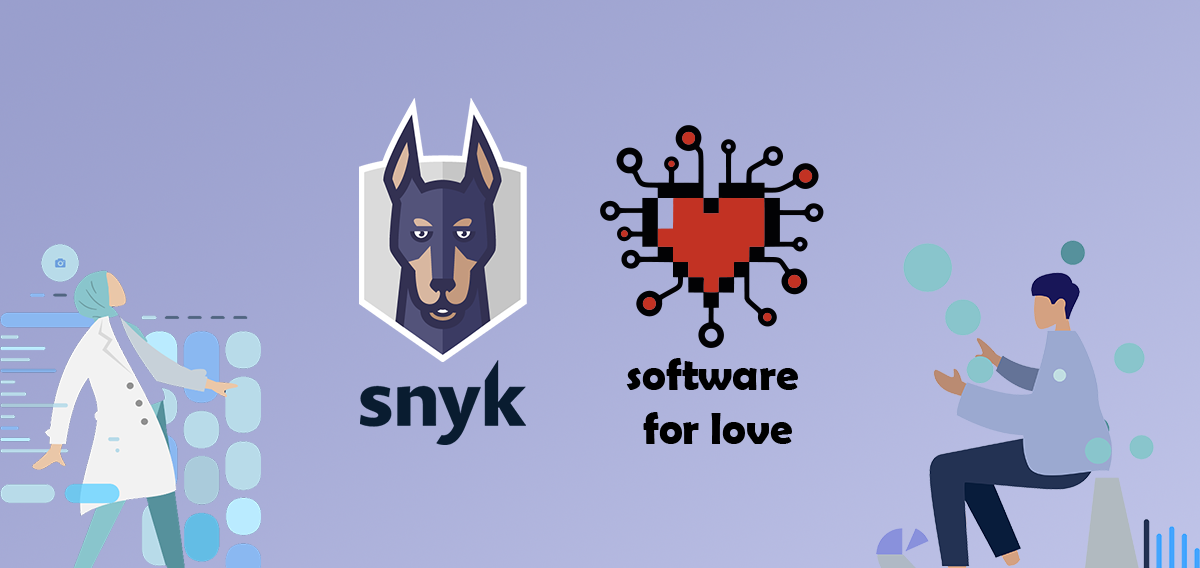
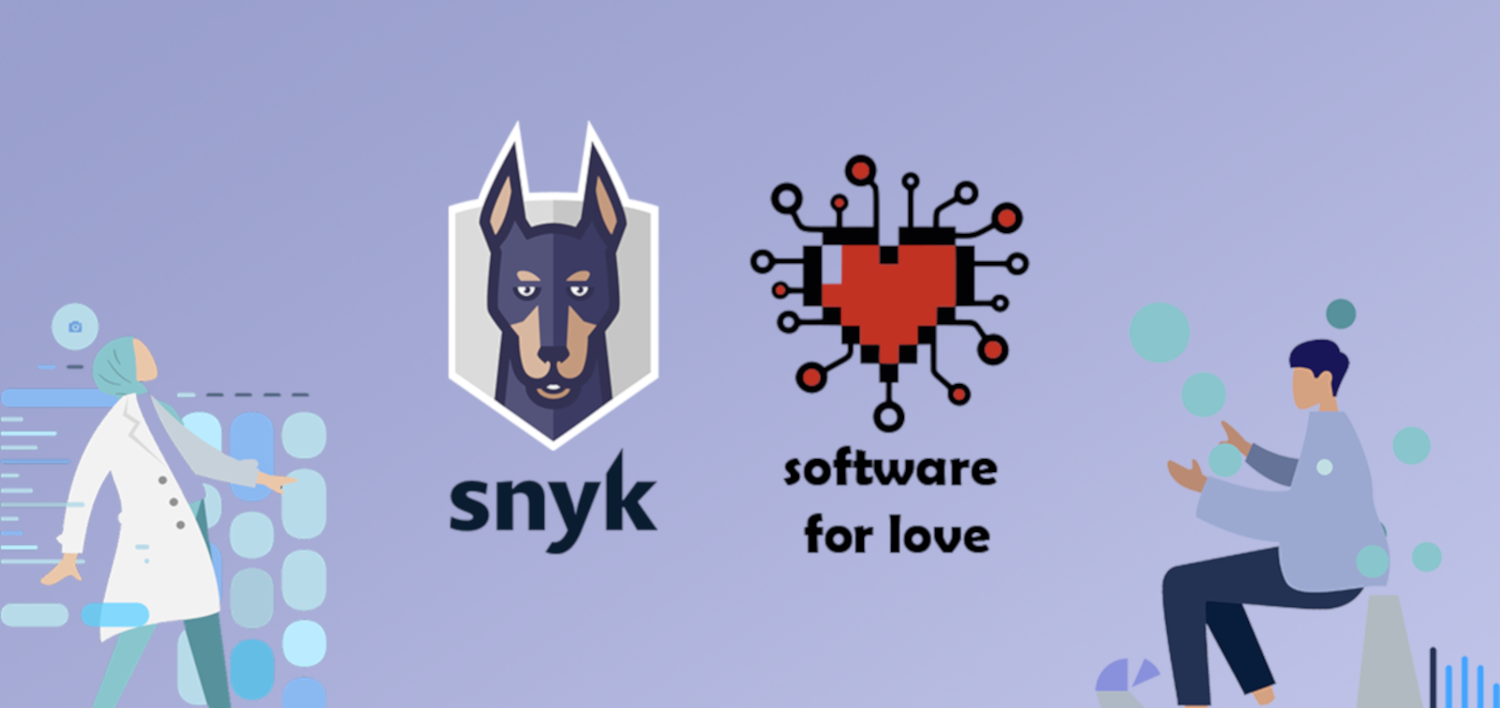
made SNYK.md match the updated post template, updated image size and some text. blog post headers need format changes

diff --git a/src/templates/post.js b/src/templates/post.js
@@ -47,15 +47,15 @@ export default class Post extends React.Component {
                   </div>
                   <div id="block2">
                   <h5 className="post__intro">{_.get(this.props, 'pageContext.frontmatter.intro', null)}</h5>
-                  <Link to="https://www.ctsbionics.com">
-                    <button>Visit Us</button>
+                  <Link to={_.get(this.props, 'pageContext.frontmatter.link', null)}>
+                    <button>{_.get(this.props, 'pageContext.frontmatter.buttontxt', null)}</button>
                   </Link>
                   </div>
                   <div id = "block3">
-                  <header5>Services&nbsp;</header5>
-                  <header5>UI/UX-Design&nbsp;</header5>
-                  <header5>Deliverables&nbsp;</header5>
-                  <header5>Responsive-Website&nbsp;</header5>
+                  <p className="post__header1">{_.get(this.props, 'pageContext.frontmatter.header1', null)}</p>
+                  <p className="post__header2">{_.get(this.props, 'pageContext.frontmatter.header2', null)}</p>
+                  <p className="post__header3">{_.get(this.props, 'pageContext.frontmatter.header3', null)}</p>
+                  <p className="post__header4">{_.get(this.props, 'pageContext.frontmatter.header4', null)}</p>
                   </div>
                 </header>
                 <h5 className="post__divider">{_.get(this.props, 'pageContext.frontmatter.divider', null)}</h5>

diff --git a/src/pages/blog/snyk-partnership.md b/src/pages/blog/snyk-partnership.md
@@ -1,5 +1,5 @@
 ---
-title: Software For Love and Snyk Pursuing Impact Together
+title: SFL X Snyk
 date: "2021-07-26"
 author: src/data/team/Executive-Team/hrithik-shah.yaml
 categories:
@@ -10,8 +10,12 @@ tags:
     - Empowerment
 image: images/snyk-partnership.png
 image_alt: SFL x Snyk
-excerpt: >-
-    We have partnered with Snyk as part of their Snyk Impact effort to receive in-kind software security and code integration support.
+
+buttontxt: Visit SNYK
+# excerpt: >-
+#     We have partnered with Snyk as part of their Snyk Impact effort to receive in-kind software security and code integration support.
+intro: Software For Love and Snyk Pursuing Impact Together. We have partnered with Snyk as part of their Snyk Impact effort to receive in-kind software security and code integration support.
+link: https://snyk.io/
 template: post
 ---
 

diff --git a/src/pages/projects/bionics.md b/src/pages/projects/bionics.md
@@ -14,6 +14,12 @@ image: images/ubionics-blogImg.png
 image_alt: uBionics placeholder image
 intro: The Carpal Tunnel Solutions team at uBionics at the University of Ottawa, are a student run team that is developing a wrist guard for those with Carpal Tunnel Syndrome (CTS). Their goal currently is to create a product that can be entered into clinical trials.
 
+header1: Services
+header2: Web Development and UI/UX
+header3: Deliverables
+header4: Responsive Website
+
+buttontxt: Visit Site
 
 link: https://www.ctsbionics.com 
 # # sections:
